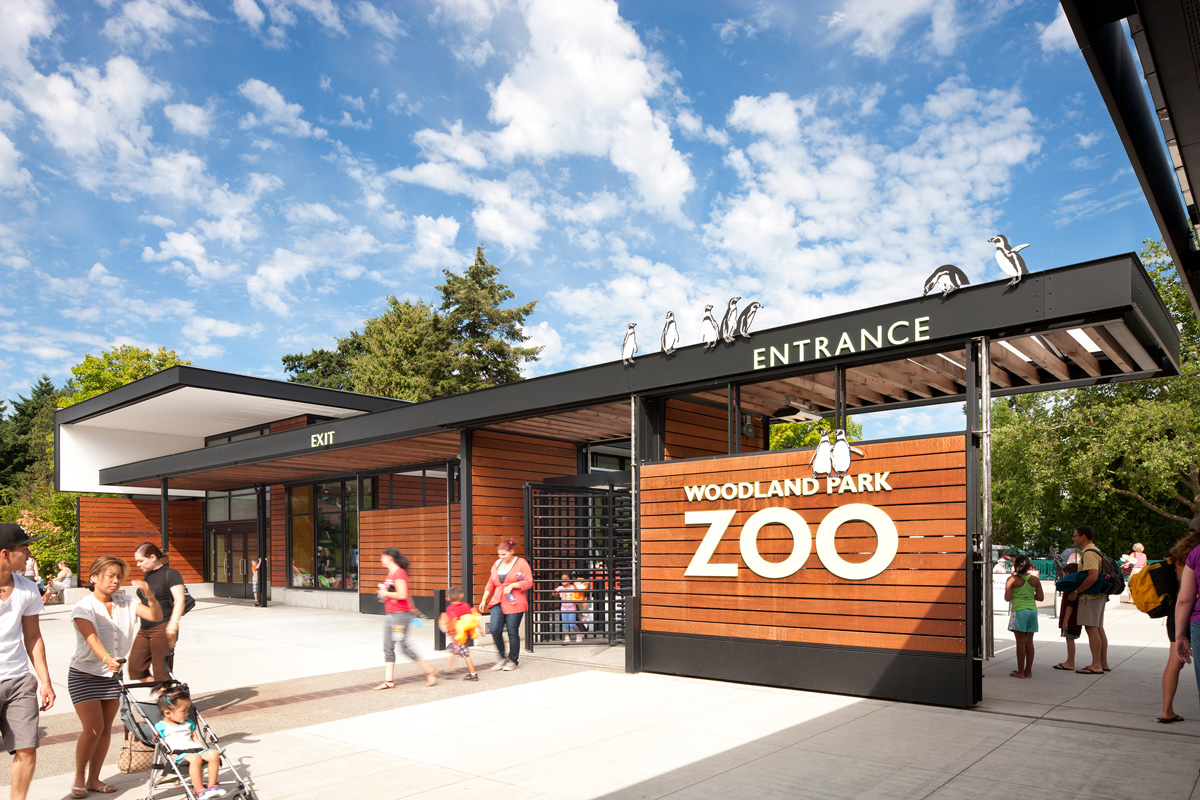
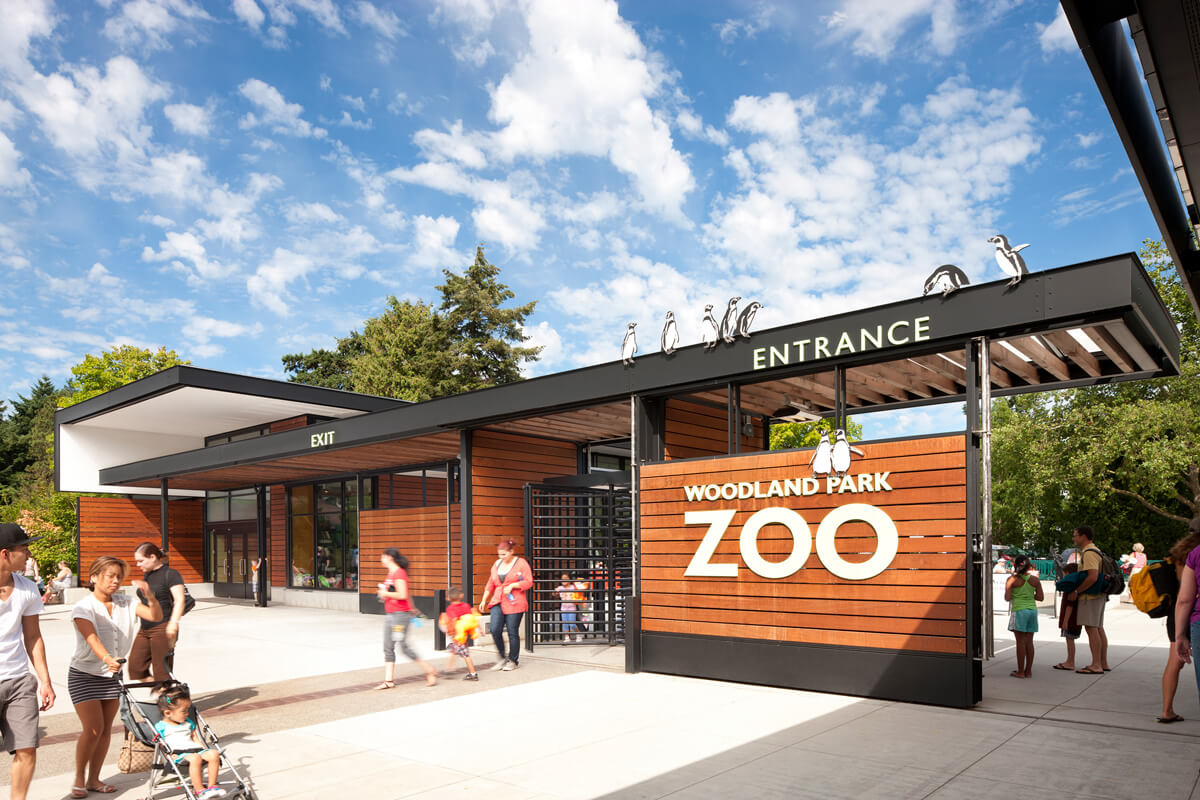
add loading pic and compress photos

diff --git a/index.html b/index.html
@@ -28,7 +28,7 @@
           <img src="resources/images/peguin_header.jpg" alt="peguin">
         </h1>
       </div>
-      <app-root>Loading...</app-root>
+      <app-root><img src="resources/images/loading_logo.png" alt="swimming otter" class="center-block"></app-root>
     </div>
   </body>
 </html>
